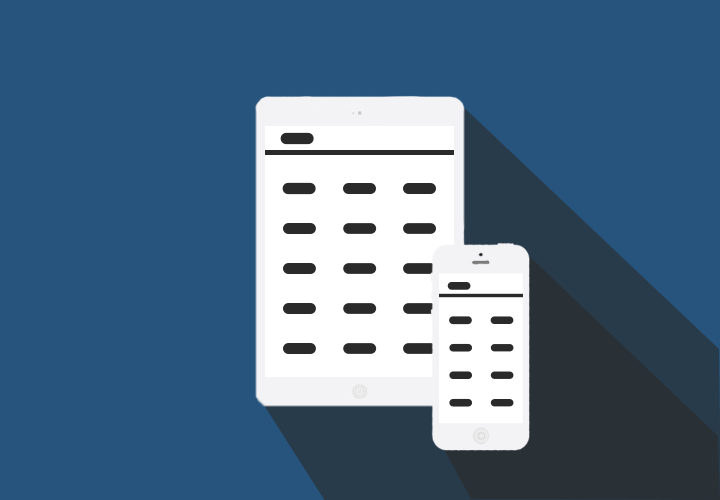
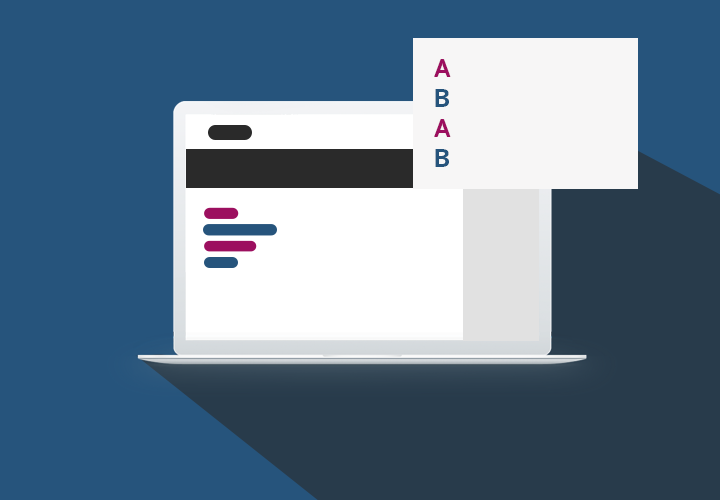
Swapped out images on home page

diff --git a/src/main/resources/templates/home.html b/src/main/resources/templates/home.html
@@ -237,8 +237,8 @@
           <p>Browse popular ballads and find inspiration for your own</p>
         </div>
         <div class="features-carousel-description">
-          <h1>Access on the go</h1>
-          <p>Open your saved ballads on your phone or tablet wherever you are</p>
+          <h1>Utilize rhyme schemes</h1>
+          <p>Use rhyme schemes and song structure tools to start writing sooner</p>
         </div>
     </div>
   </section>
